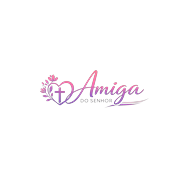
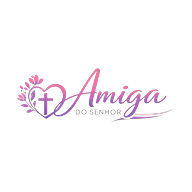
Add files via upload

Changed region(s): [[0.0938, 0.3438, 0.9062, 0.6562]]

diff --git a/index.html b/index.html
@@ -21,7 +21,7 @@
       </div>
       <div class="controls">
         <button id="btnShare" title="Compartilhar ou copiar">Compartilhar</button>
-        <a id="btnInstagram" class="linkbtn" href="https://www.instagram.com/aamigadosenhor" rel="noopener" title="Abrir Instagram">Instagram</a>
+        <a id="btnInstagram" class="linkbtn" href="https://www.instagram.com/aamigadosenhor" target="_blank" rel="noopener" title="Abrir Instagram">Instagram</a>
         <button id="btnUpdate" title="Forçar atualização" style="display:none">Atualizar</button>
       </div>
     </div>

diff --git a/styles.css b/styles.css
@@ -194,3 +194,15 @@ hr{
     font-size:17px;
   }
 }
+/* Ajustes de header e logo */
+.header{align-items:center}
+.brand{align-items:center}
+.logo{display:flex;align-items:center;justify-content:center;overflow:hidden}
+.logo img{width:100%;height:100%;object-fit:contain;object-position:center}
+
+@media (max-width: 560px){
+  .logo{width:190px;height:48px}
+  .titlebox{min-width:0}
+  .titlebox p{max-width:22ch}
+  .controls{gap:10px}
+}

diff --git a/app.js b/app.js
@@ -1,6 +1,6 @@
 const $ = (sel) => document.querySelector(sel);
 
-const APP_VERSION = "v4";
+const APP_VERSION = "v6";
 
 function isLeapYear(year){
   return (year % 4 === 0 && year % 100 !== 0) || (year % 400 === 0);
